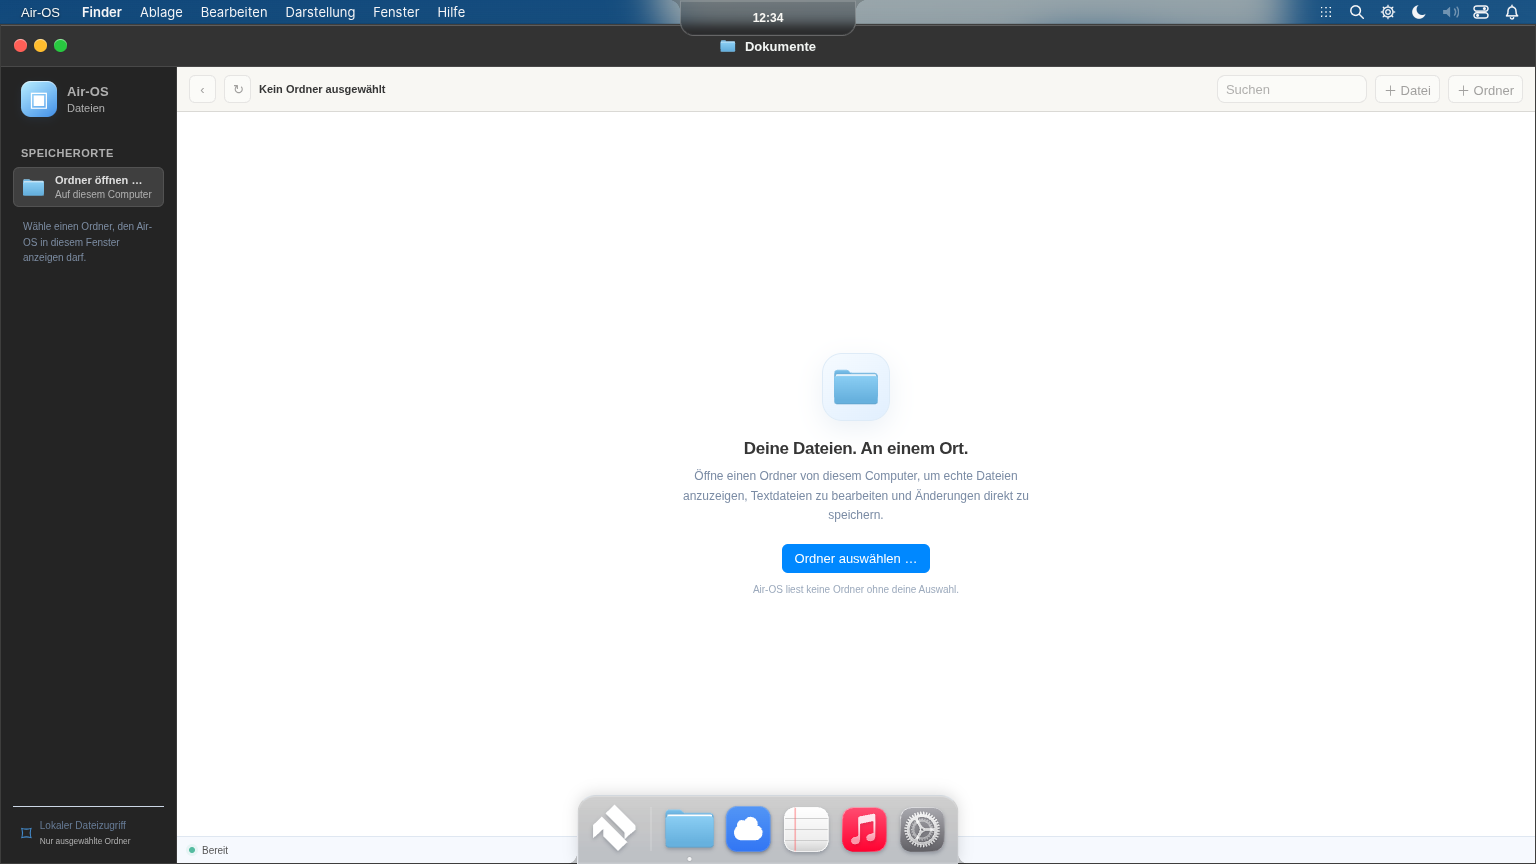
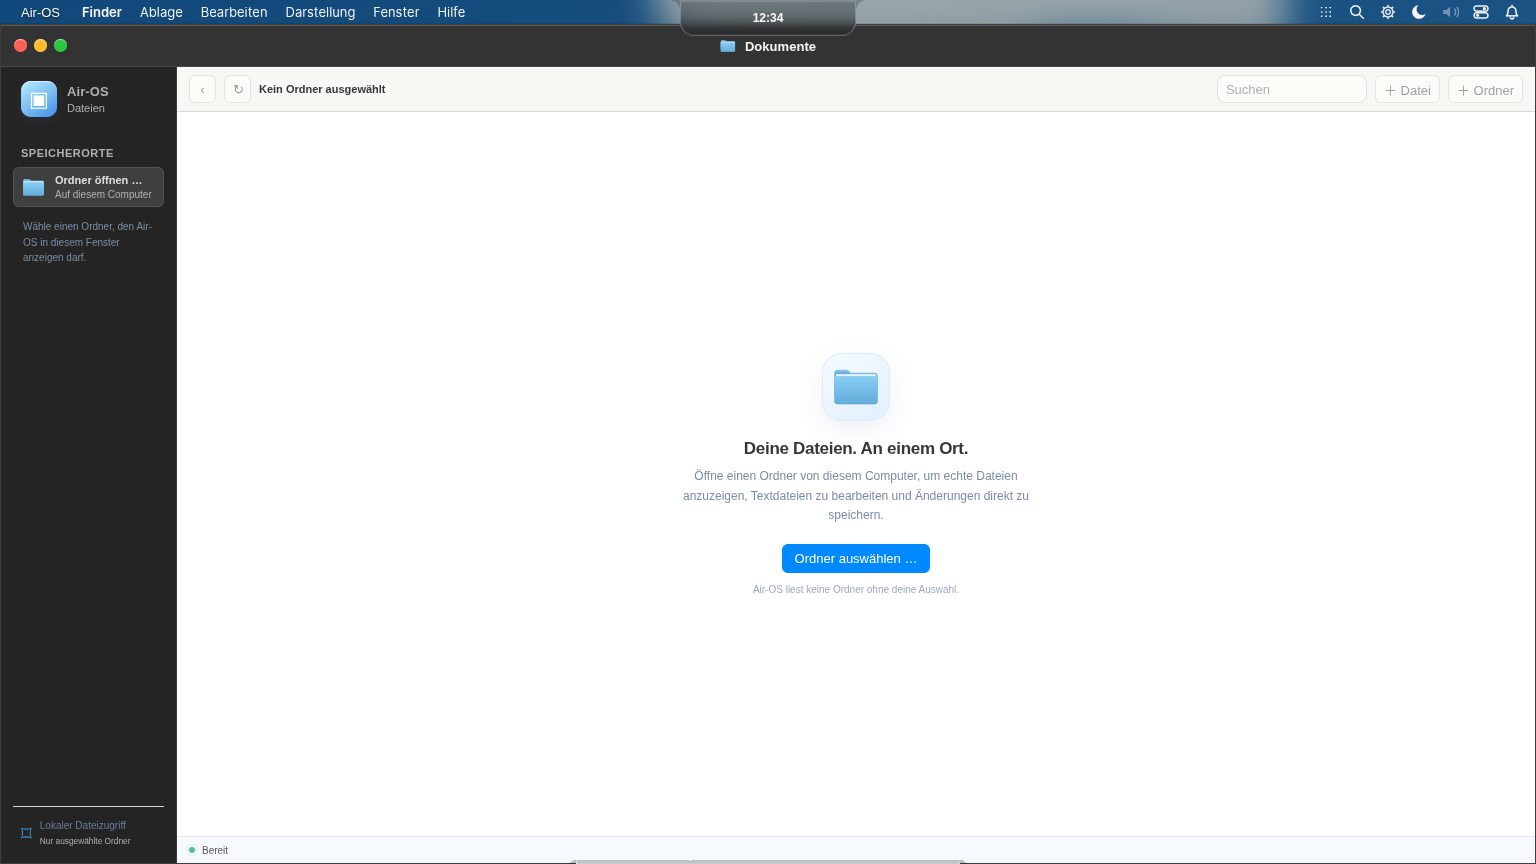
Serialize Snap after confirmed Floating restore and verify actual two-app layout transitions

Changed region(s): [[0.375, 0.9062, 0.625, 1.0]]

diff --git a/air-window-system.js b/air-window-system.js
@@ -13,7 +13,7 @@
  function save(id){const w=openApps.get(id);if(document.documentElement.classList.contains('air-native-fullscreen')||desk.mode!=='floating'||!owner||disposed||restoring||!modern()||!w||w._airOSDockMotion||w.style.display==='none')return;const b=rect(w),restore=w._airOSRestoreBounds||w._airOSSnapRestoreBounds;const base=restore?Object.fromEntries(Object.entries(restore).map(([k,v])=>[k,parseFloat(v)||0])):null;layout={...layout,[id]:{...b,mode:w.classList.contains('maximized')?'maximized':w.dataset.snap||'normal',...(base&&base.width&&base.height?{restore:base}:{})}};clearTimeout(timer);timer=setTimeout(flush,180);}
  function flush(){clearTimeout(timer);timer=null;if(disposed||!owner)return;const patch=structuredClone(layout),session=owner;writes=writes.catch(()=>{}).then(async()=>{if(disposed||owner!==session)return;try{await airOS.preferences.update({windowLayout:patch},session);}catch{if(!disposed)toast('Fensterposition konnte nicht gespeichert werden. Verschiebe das Fenster zum erneuten Versuch.');}});}
  function restore(id,w){const b=layout[id];if(!b||!modern()||w._airOSDockMotion||desk.mode!=='floating')return;restoring=true;try{const host=appWindowHostRect(),base=math.restoreBounds(b.restore||b,host.width,host.height);use(w,base);if(b.mode==='maximized')w.querySelector('.maximize').click();else if(b.mode==='left'||b.mode==='right')snap(id,b.mode);}finally{restoring=false;}}
- function snap(id,side){if(document.documentElement.classList.contains('air-native-fullscreen'))return false;if(desk.mode!=='floating')void configure({mode:'floating'}); const w=openApps.get(id);if(!modern()||!w||w._airOSDockMotion||w.style.display==='none')return false;if(w.classList.contains('maximized'))w.querySelector('.maximize').click();if(side==='restore'){if(w._airOSSnapRestoreBounds){const h=appWindowHostRect();use(w,math.bounds(w._airOSSnapRestoreBounds,h.width,h.height));}delete w._airOSSnapRestoreBounds;delete w.dataset.snap;clampAppWindow(w);save(id);return true;}if(!['left','right'].includes(side))return false;
+ function snap(id,side){if(document.documentElement.classList.contains('air-native-fullscreen'))return false;if(desk.mode!=='floating'){void configure({mode:'floating'}).then(ok=>{if(ok&&!disposed)snap(id,side);});return true;} const w=openApps.get(id);if(!modern()||!w||w._airOSDockMotion||w.style.display==='none')return false;if(w.classList.contains('maximized'))w.querySelector('.maximize').click();if(side==='restore'){if(w._airOSSnapRestoreBounds){const h=appWindowHostRect();use(w,math.bounds(w._airOSSnapRestoreBounds,h.width,h.height));}delete w._airOSSnapRestoreBounds;delete w.dataset.snap;clampAppWindow(w);save(id);return true;}if(!['left','right'].includes(side))return false;
   if(!w._airOSSnapRestoreBounds)w._airOSSnapRestoreBounds=rect(w);const host=appWindowHostRect(),half=Math.floor(host.width/2),narrow=host.width<640;use(w,{left:!narrow&&side==='right'?half:0,top:0,width:narrow?host.width:side==='right'?host.width-half:half,height:host.height});w.dataset.snap=side;focusAirWindow(id,w);save(id);return true;
  }
  function mount(id,w){if(mounted.has(w)||!w?.isConnected)return;mounted.add(w);const local=new AbortController(),localSignal=local.signal,stop=()=>{local.abort();signal.removeEventListener('abort',stop);delete cleanups[id];};cleanups[id]=stop;signal.addEventListener('abort',stop,{once:true});const maximize=w.querySelector('.maximize'),original=maximize.onclick;w._r6MaxNative=()=>original.call(maximize,new Event('click'));maximize.onclick=function(e){if(document.documentElement.classList.contains('air-native-fullscreen')){void airOS.windowState.toggle(owner);return;}if(w._airOSSnapRestoreBounds){use(w,w._airOSSnapRestoreBounds);delete w._airOSSnapRestoreBounds;delete w.dataset.snap;}if(desk.mode!=='floating'){void configure({mode:'floating'}).then(ok=>{if(ok&&w.isConnected){original.call(maximize,e);save(id);}});return;}original.call(this,e);save(id);};w.addEventListener('focusin',e=>{if(!disposed){w._airOSReturnFocus=e.target;focusAirWindow(id,w);}},{signal:localSignal});w.addEventListener('pointerup',()=>{if(desk.mode==='floating')save(id);else requestLayout();},{signal:localSignal});w.querySelector('.window-titlebar').addEventListener('contextmenu',e=>{if(!modern())return;e.preventDefault();showMenu(id,e.clientX,e.clientY);},{signal:localSignal});restore(id,w);}
@@ -33,7 +33,7 @@
  document.addEventListener('keyup',e=>{if(panel&&e.key==='Control')closeSwitcher(true);},{signal});window.addEventListener('blur',()=>{closeSwitcher();closeMenu();},{signal});
  document.addEventListener('pointerdown',e=>{if(panel&&!panel.contains(e.target))closeSwitcher();if(menu&&!menu.contains(e.target))closeMenu();},{signal});
  const settleOwnMotion=()=>{if(readAirSettings().reduceMotion||motionMedia.matches){for(const a of Object.values(motions))a.cancel();}if(readAirSettings().reduceMotion||motionMedia.matches)for(const a of panel?.getAnimations()||[])a.cancel();};motionMedia.addEventListener('change',()=>{settleOwnMotion();requestLayout();},{signal});document.addEventListener('visibilitychange',()=>{for(const a of Object.values(motions))a.cancel();requestLayout();},{signal});
- document.addEventListener('air-settings-changed',()=>{settleOwnMotion();requestLayout();if(!modern()){closeSwitcher();closeMenu();}},{signal});window.addEventListener('resize',()=>{requestLayout();closeMenu();for(const [id,w]of openApps)if(w.dataset.snap)snap(id,w.dataset.snap);},{signal});
+ document.addEventListener('air-settings-changed',()=>{settleOwnMotion();requestLayout();if(!modern()){closeSwitcher();closeMenu();}},{signal});window.addEventListener('resize',()=>{requestLayout();closeMenu();if(desk.mode==='floating')for(const [id,w]of openApps)if(w.dataset.snap)snap(id,w.dataset.snap);},{signal});
  const dispose=()=>{if(disposed)return;if(arrangeFrame)cancelAnimationFrame(arrangeFrame);for(const a of Object.values(motions))a.cancel();Object.keys(motions).forEach(id=>delete motions[id]);flush();disposed=true;stopFullscreen?.();fullscreenExit?.remove();fullscreenExit=null;document.documentElement.classList.remove('air-native-fullscreen');owner=null;layout={};mru=[];closeSwitcher();closeMenu();clearTimeout(timer);stop();events.abort();};document.addEventListener('air-profile-changing',dispose,{once:true});window.addEventListener('pagehide',dispose,{once:true});
  window.airWindowSystem=Object.freeze({toggleFullscreen,next,snap,focus,configure,reflow:requestLayout,desktopLayout:()=>structuredClone(desk),order:()=>math.order([...openApps.keys()],mru,current()),flush:()=>{flush();return writes;}});
  (async()=>{try{const user=await airOS.currentUser(),p=await airOS.preferences.get();if(disposed||!user?.preferenceSession||(await airOS.currentUser())?.preferenceSession!==user.preferenceSession)return;owner=user.preferenceSession;if(airOS.windowState){const accept=e=>{if(!disposed&&e.owner===owner){document.documentElement.classList.toggle('air-native-fullscreen',e.fullscreen===true);fullscreenChrome();requestLayout();}};stopFullscreen=airOS.windowState.onFullscreen(accept);accept({owner,fullscreen:await airOS.windowState.fullscreen(owner)});}layout=p.windowLayout||{};desk=structuredClone(p.desktopLayout||desk);requestLayout();for(const [id,w]of openApps){if(mounted.has(w))restore(id,w);else mount(id,w);}}catch{}})();

diff --git a/styles.css b/styles.css
@@ -823,7 +823,7 @@ html[data-desktop-theme=modern] .app-window.maximized{border-radius:0!important}
 html.air-native-fullscreen .window-resize-handle{display:none!important}
 #air-fullscreen-exit{position:fixed;top:6px;right:8px;z-index:5000;border:1px solid #ffffff80;border-radius:6px;padding:5px 10px;background:#202329e8;color:white;font:12px system-ui}#air-fullscreen-exit:focus-visible{outline:2px solid #75aeea;outline-offset:2px}
 /* No geometry reservation: auto-hide only maximized/tiled Dock, with a real 4px hot edge. */
-html[data-desktop-theme=modern]:is(:has(.app-window.maximized[data-active=true]),[data-window-layout=dwindle],[data-window-layout=master],[data-window-layout=monocle]) .dock:not(:hover):not(:focus-within){clip-path:inset(calc(100% - 4px) -32px 0 -32px)}
+html[data-desktop-theme=modern]:is(:has(.app-window.maximized[data-active=true]),[data-window-layout=dwindle],[data-window-layout=master],[data-window-layout=monocle]) .dock[data-theme=modern]:not(:hover):not(:focus-within){clip-path:inset(calc(100% - 4px) -32px 0 -32px)}
 /* F1: Notes only, opt-in to the existing desktop theme. Classic rules remain above. */
 html[data-desktop-theme="modern"] .air-notes-window{background:#9cdaa1;color:#2c3b31;border:0;border-radius:20px;box-shadow:0 18px 48px #183b3929;backdrop-filter:none;font-family:system-ui,sans-serif}
 html[data-desktop-theme="modern"] .air-notes-window .window-titlebar{height:36px;flex-basis:36px;padding:0 14px;background:#9cdaa1;border:0}

diff --git a/docs/AIR_OS_R6_FULL_SCREEN.md b/docs/AIR_OS_R6_FULL_SCREEN.md
@@ -6,7 +6,7 @@ Branch:fix/air-os-r6-true-fullscreen. Verbindliche Basis2e43327423abcce56da46478
 
 Im aktiven R6 kombinieren sich Desktop31px, Island-Hostverschiebung62px und untere76px-Reserve. Die ältere8/12/86px-Regel ist zusätzlich noch in styles.css vorhanden, aber nachfolgende Overrides bestimmen die tatsächliche Box. Maximieren100% bezog sich auf diesen verkleinerten Host. Der nachgereichte Windows-Screenshot zeigt genau diesen Effekt; native Windows-Titelleiste und internes Maximieren waren zudem unterschiedliche Zustände.
 
-Modern arbeitet jetzt mit24px Menüzeile und danach voller Breite/Höhe ohne Dockreserve. Gemeinsamer Vertrag src/core/window-system.js workArea → app.js appWindowHostRect wird für Drag/Clamp/Snap, Maximize/Restore sowie die vorhandenen Hyprland-Layouts verwendet. CSS setzt denselben Host. Classic außerhalb Vollbild bleibt beim bisherigen Host. Dock ist Overlay, nicht Layoutreserve; Island bleibt fest oben mit ihrer eigenen Höhe/Kontur. Dwindle/Master behalten nur innere8px-Gaps, äußere Ränder0; Monocle füllt die Fläche.
+Modern arbeitet jetzt mit24px Menüzeile und danach voller Breite/Höhe ohne Dockreserve. Gemeinsamer Vertrag src/core/window-system.js workArea → app.js appWindowHostRect wird für Drag/Clamp/Snap, Maximize/Restore sowie die vorhandenen Hyprland-Layouts verwendet. CSS setzt denselben Host. Classic außerhalb Vollbild bleibt beim bisherigen Host. Dock ist keine Layoutreserve: bei maximierten/gekachelten Fenstern Autohide mit4px-Hotedge und Tastaturfokus, bei Floating normal sichtbar; Island bleibt fest oben mit ihrer eigenen Höhe/Kontur. Dwindle/Master behalten nur innere8px-Gaps, äußere Ränder0; Monocle füllt die Fläche.
 
 Normal: frei beweglich/skalierbar, am Rand weiterhin greifbar. Grün und Titelleisten-Doppelklick maximieren/restaurieren denselben vorhandenen Controller. Gesicherte normale Geometrie bleibt maßgeblich.
 
@@ -14,7 +14,7 @@ Echtes Vollbild: BrowserWindow.setFullScreen über Main/preload; keine dauerhaft
 
 ## Gemessene Linux-Electron-Abnahme
 
-539/539 Node-Tests bestanden, alle533 ursprünglichen R6-Tests erhalten. Echte sandboxerhaltende Electron44.9.3-GUI mit synthetischem Profil, fünf Renderergrößen:
+540/540 Node-Tests bestanden, alle533 ursprünglichen R6-Tests erhalten. Echte sandboxerhaltende Electron44.9.3-GUI mit synthetischem Profil, fünf Renderergrößen:
 
 | Viewport | Maximierter Finder x/y | Größe | Kantenabweichung |
 |---|---|---|---|
@@ -56,13 +56,24 @@ Eigener eindeutig benannter technischer R6.1-Testkanal auf Grundlage der unverä
 
 Kein Codesigning/Produktionsrelease. Physisches Windows11/SAC, echte Mehrmonitor-/DPI-Hardware und macOS bleiben separat abzunehmen. Kein Schutzmechanismus wird umgangen.
 
-Produktcheckpoint:1b1f7d74dc1d07394ac54c01fe8b30138cb36e52; native Windows-R6.1-Abnahme läuft. Der Installer wird nur nach tatsächlichem erfolgreichen CI-/Installations-/GUI-Nachweis verlinkt.
+Erster Produktcheckpoint:1b1f7d74dc1d07394ac54c01fe8b30138cb36e52; korrigierter Produkt-/Buildcheckpoint0204bd5c38a9d90908dc33c5cff0a17369606dcf; native Windows-R6.1-Abnahme läuft. Der Installer wird nur nach tatsächlichem erfolgreichen CI-/Installations-/GUI-Nachweis verlinkt.
 
 
 ## Korrektur nach erstem nativen Lauf
 
 Lauf40773273220 baute/installierte den technischen Installer, bestand aber die alte vollständige GUI-Suite nicht. Er wird **nicht** als erfolgreiche Windowsfreigabe angeboten. Die390px-Notes-Speicheraktion traf nach Viewportwechsel das darüberliegende Settings-Dockicon.
 
-Reproduziert und im Produkt behoben: Beim initialen Restore werden nur außerhalb des neuen Viewports liegende gespeicherte Fenster mittig erreichbar eingesetzt; bereits gültige Positionen bleiben exakt erhalten. Manuelles Ziehen/Clamping bis zur Unterkante bleibt erlaubt. Maximierte/gegatchelte Flächen verwenden Dock-Autohide über eine4px-Hotedge; Hover/Fokus legt das ursprüngliche Dock wieder frei. Clip statt Transform: keine Änderung an Dockabmessungen, Pins, Magnifikation oder M2-Zielrechtecken. Floating-Dock bleibt normal sichtbar.
+Reproduziert und im Produkt behoben: Beim initialen Restore werden nur außerhalb des neuen Viewports liegende gespeicherte Fenster mittig erreichbar eingesetzt; bereits gültige Positionen bleiben exakt erhalten. Manuelles Ziehen/Clamping bis zur Unterkante bleibt erlaubt. Maximierte/gekachelte Flächen verwenden Dock-Autohide über eine4px-Hotedge; Hover/Fokus legt das ursprüngliche Dock wieder frei. Clip statt Transform: keine Änderung an Dockabmessungen, Pins, Magnifikation oder M2-Zielrechtecken. Floating-Dock bleibt normal sichtbar.
 
-Die vollständige bestehende Linux-GUI-Suite besteht danach wieder einschließlich Notes-Speichern, Profil-/Neustartprüfung, Apps, M1/M2 und WebGL-Fallback.539/539 Node-Tests bestanden. Native R6.1-Abnahme wird mit den tatsächlichen korrigierten Bytes erneut durchgeführt.
+Die vollständige bestehende Linux-GUI-Suite besteht danach wieder einschließlich Notes-Speichern, Profil-/Neustartprüfung, Apps, M1/M2 und WebGL-Fallback.540/540 Node-Tests bestanden. Native R6.1-Abnahme wird mit den tatsächlichen korrigierten Bytes erneut durchgeführt.
+
+Auch die explizite Dock-Hotedgeprüfung besteht: maximiert zunächst geclippt, über echte Pointerbewegung an die Unterkante wieder vollständig sichtbar, danach erneut verborgen. [Dock eingeblendet](visual/r61/full-screen/finder-maximized-dock-revealed-1688.png). DOMRect und M2-Ziel bleiben dabei unverändert.
+
+
+## Snap nach Tiling und native Checkpoints
+
+Checkpoint0204bd5 bestand die native Windows-Abnahme40775736880 vollständig (23/23Schritte): Installation und alle5GUI-/Diagnosepfade, echtes Fullscreen1024×768 ohne CDP-Metrikoverride und erfolgreiche Notes-Speicherung. Windows-Bildcheckpointd1b0825. Ein anschließend explizit geprüfter Dwindle→Snap-Übergang war jedoch noch fehlerhaft: die asynchrone Floating-Restaurierung überschrieb den zuerst gesetzten Snap.
+
+Korrigiert: Snap wird erst nach bestätigtem Floatingwechsel angewandt. Resize löst im Tiling keine alten Snapaktionen aus. Ein Regressionstest bestätigt keinerlei Geometriewrite vor ACK; echte5-Größen-GUI mit2Apps/Dwindle→Snap besteht.540/540 Node-Tests bestanden. Der abschließende Installer wird auch diesen Fix enthalten und deshalb aus dem neuen Commit erneut nativ gebaut.
+
+[Zwei echte Apps in Dwindle](visual/r61/full-screen/dwindle-two-apps.png) · [Snap nach Dwindle](visual/r61/full-screen/snap-from-dwindle.png).
